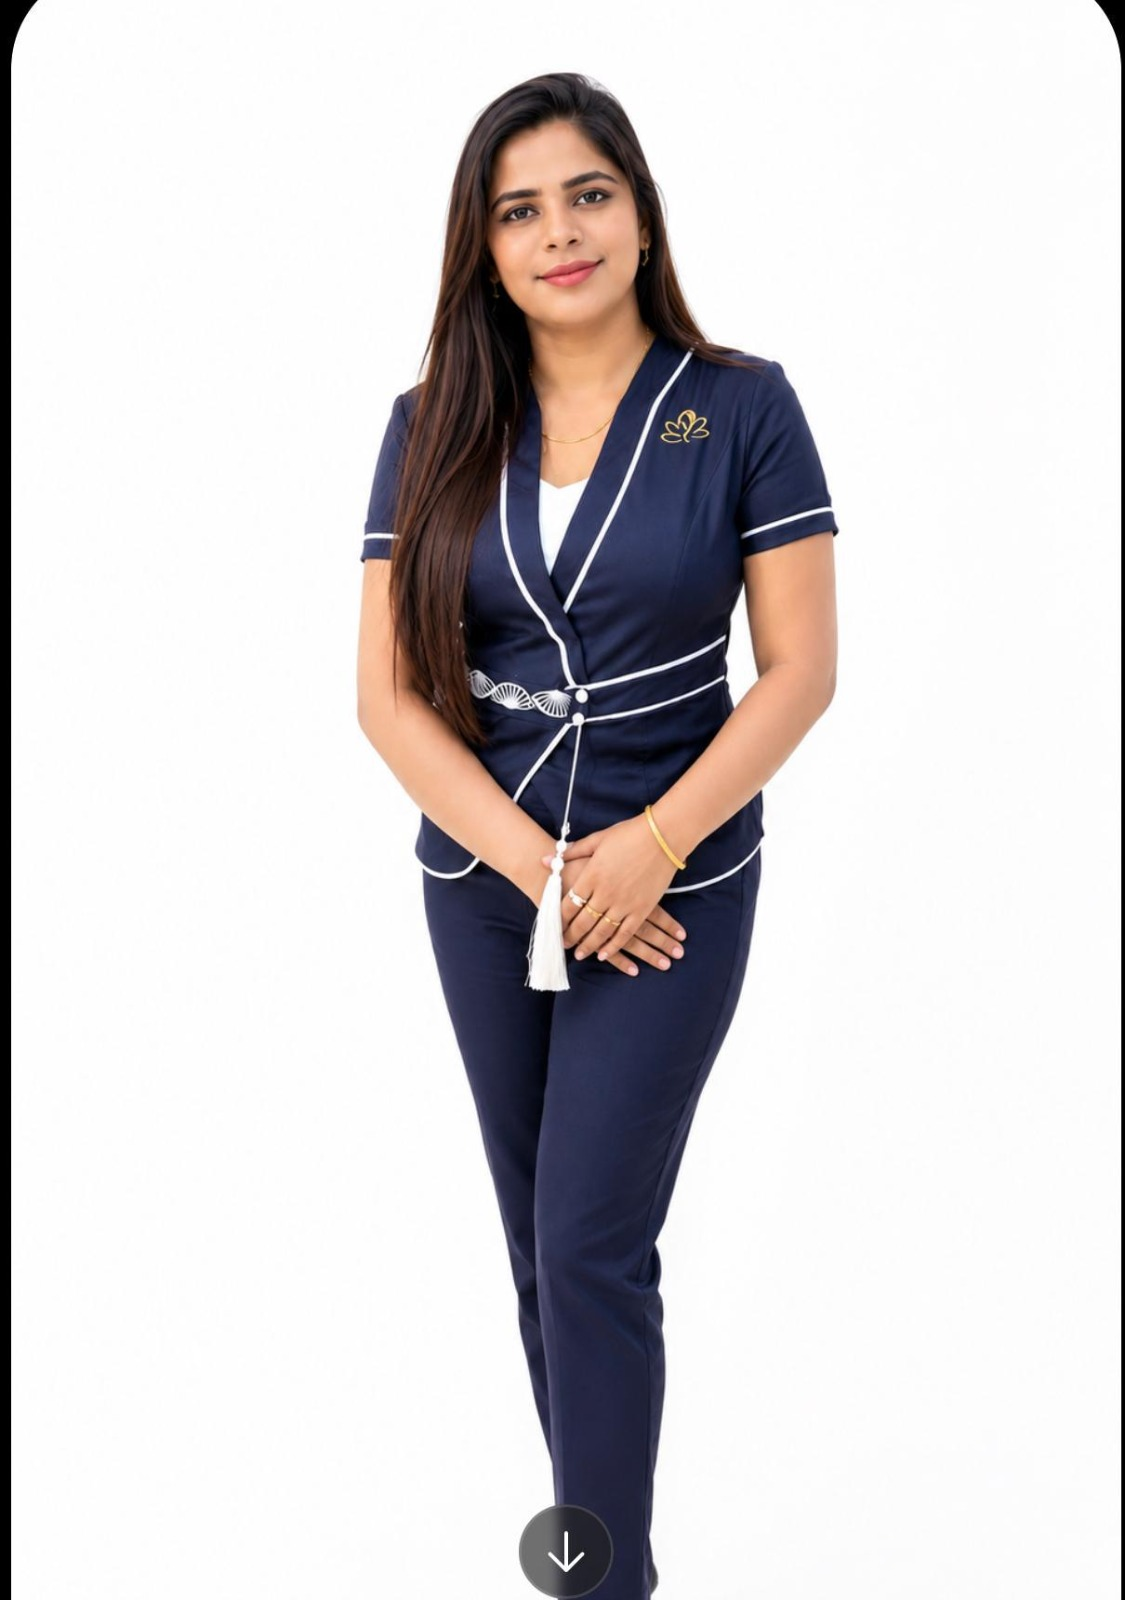
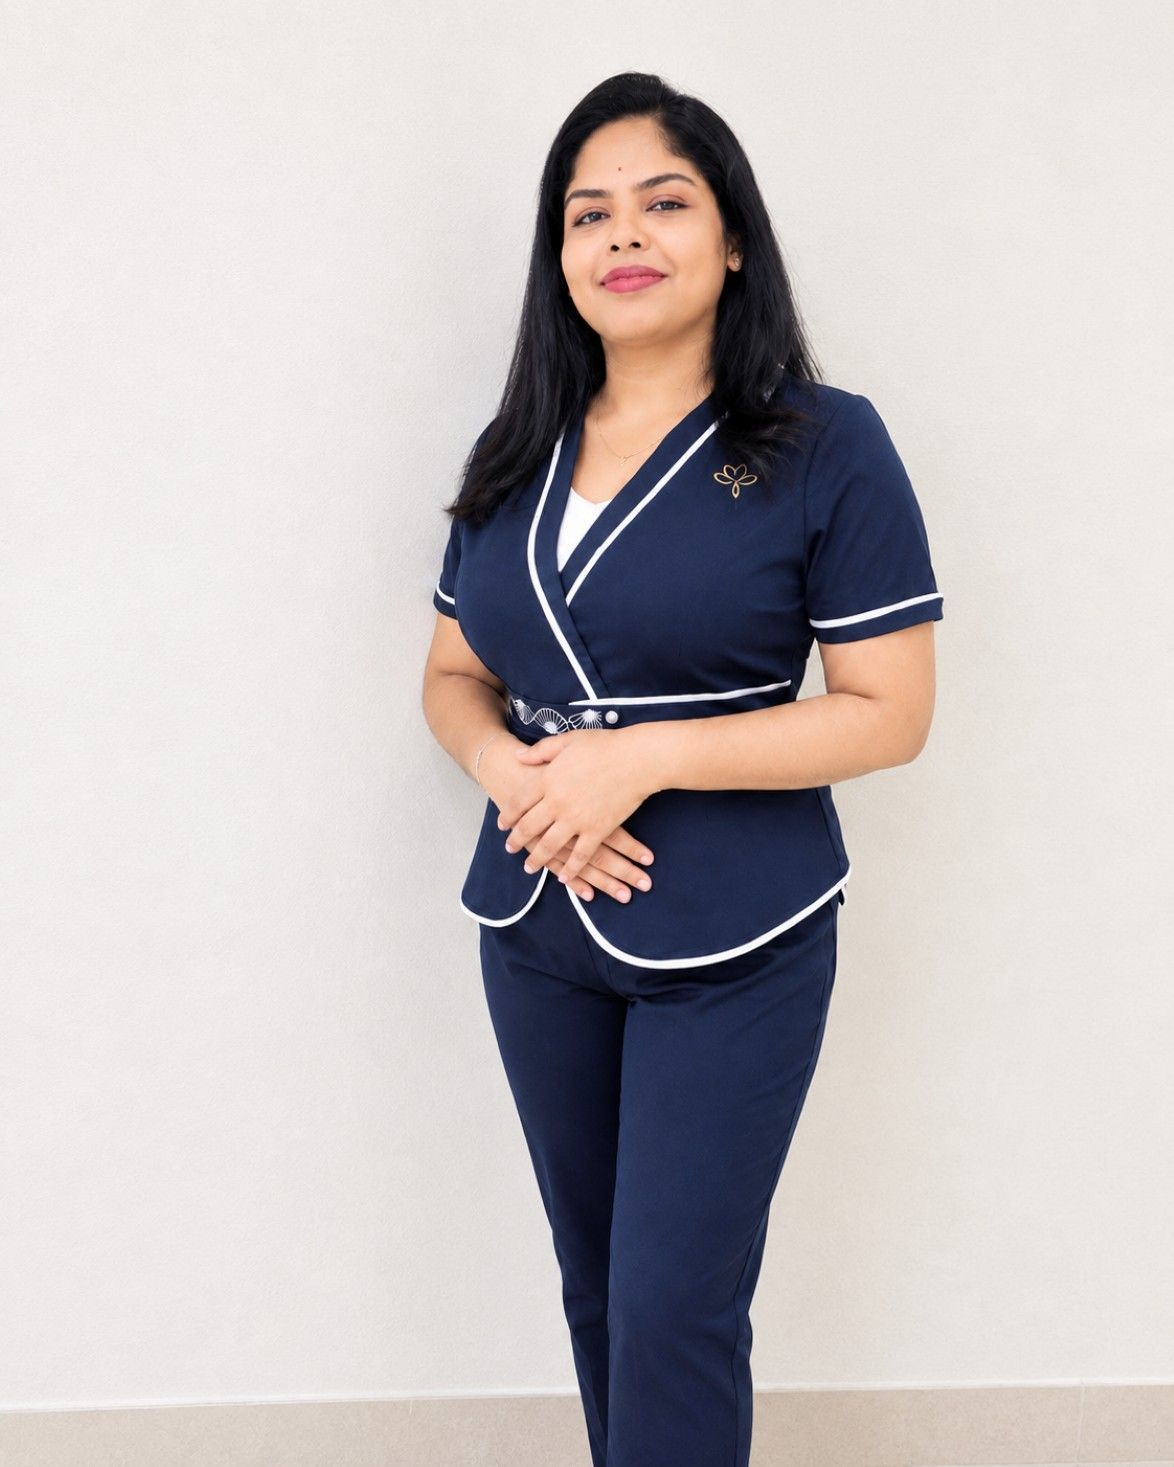
images changed

diff --git a/lib/services-data.ts b/lib/services-data.ts
@@ -35,8 +35,16 @@ export const SERVICE_CATEGORIES: ServiceCategory[] = [
     image: "/imgs/kizhi-massage-01.jpg",
     items: [
       { name: "Ayurvedic Massage", duration: "60 minutes", price: "250 AED" },
-      { name: "Ayurvedic Massage with Kizhi", duration: "90 minutes", price: "299 AED" },
-      { name: "Ayurvedic Massage with Steam", duration: "90 minutes", price: "359 AED" },
+      {
+        name: "Ayurvedic Massage with Kizhi",
+        duration: "90 minutes",
+        price: "299 AED",
+      },
+      {
+        name: "Ayurvedic Massage with Steam",
+        duration: "90 minutes",
+        price: "359 AED",
+      },
       {
         name: "Cupping Therapy",
         duration: "60 minutes · 6 cups",
@@ -61,7 +69,11 @@ export const SERVICE_CATEGORIES: ServiceCategory[] = [
       { name: "Couple Massage", price: "399 AED" },
       { name: "4 Hands Massage", price: "399 AED" },
       { name: "Foot Massage", duration: "30 minutes", price: "150 AED" },
-      { name: "Head & Shoulder Massage", duration: "30 minutes", price: "150 AED" },
+      {
+        name: "Head & Shoulder Massage",
+        duration: "30 minutes",
+        price: "150 AED",
+      },
       { name: "Herbal Head Massage", price: "150 AED" },
       { name: "Shaving", note: "private part only", price: "180 AED" },
       { name: "Waxing", note: "private part only", price: "199 AED" },
@@ -95,13 +107,15 @@ export const SIGNATURE_HIGHLIGHTS = [
     title: "Ayurvedic Kizhi Ritual",
     price: "From 250 AED",
     image: "/imgs/kizhi-massage-02.jpg",
-    blurb: "Warm herbal pouches, pressed rhythmically to melt away deep-seated tension.",
+    blurb:
+      "Warm herbal pouches, pressed rhythmically to melt away deep-seated tension.",
   },
   {
     title: "Hot Stone Massage",
     price: "250 AED",
     image: "/imgs/hot-stone-back.jpg",
-    blurb: "Heated basalt stones glide over oiled skin, easing muscle by muscle into calm.",
+    blurb:
+      "Heated basalt stones glide over oiled skin, easing muscle by muscle into calm.",
   },
   {
     title: "Moroccan Bath & Jacuzzi",
@@ -112,7 +126,8 @@ export const SIGNATURE_HIGHLIGHTS = [
   {
     title: "Golden Facial Treatment",
     price: "250 AED",
-    image: "/imgs/candle-ritual.jpg",
-    blurb: "A radiance ritual that leaves skin luminous and the senses unwound.",
+    image: "/imgs/golden-facial.jpg",
+    blurb:
+      "A radiance ritual that leaves skin luminous and the senses unwound.",
   },
 ] as const;

diff --git a/app/page.tsx b/app/page.tsx
@@ -70,7 +70,7 @@ export default function Home() {
       {/* HERO */}
       <section className="relative flex min-h-[92vh] flex-col justify-end overflow-hidden bg-brand-900 sm:min-h-[88vh]">
         <Image
-          src="/imgs/couple-suite-02.jpg"
+          src="/imgs/main-banner.webp"
           alt="A candlelit couple's suite at Whispering Waters Spa with jacuzzi and rose petals"
           fill
           priority
@@ -283,7 +283,7 @@ export default function Home() {
             <div className="relative">
               <div className="relative aspect-4/5 w-full overflow-hidden rounded-4xl shadow-soft">
                 <Image
-                  src="/imgs/spa-candles.webp"
+                  src="/imgs/spa-candles.jpg"
                   alt="Candles, salts and a rolled towel styled for a spa ritual"
                   fill
                   sizes="(min-width: 1024px) 40vw, 90vw"
